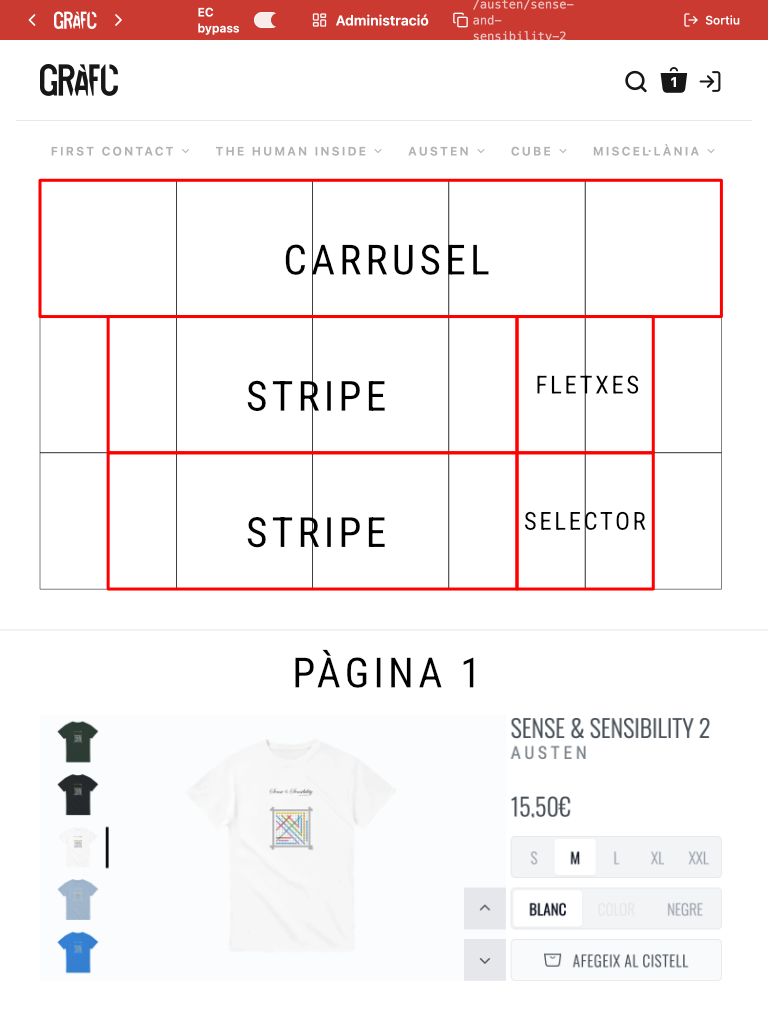
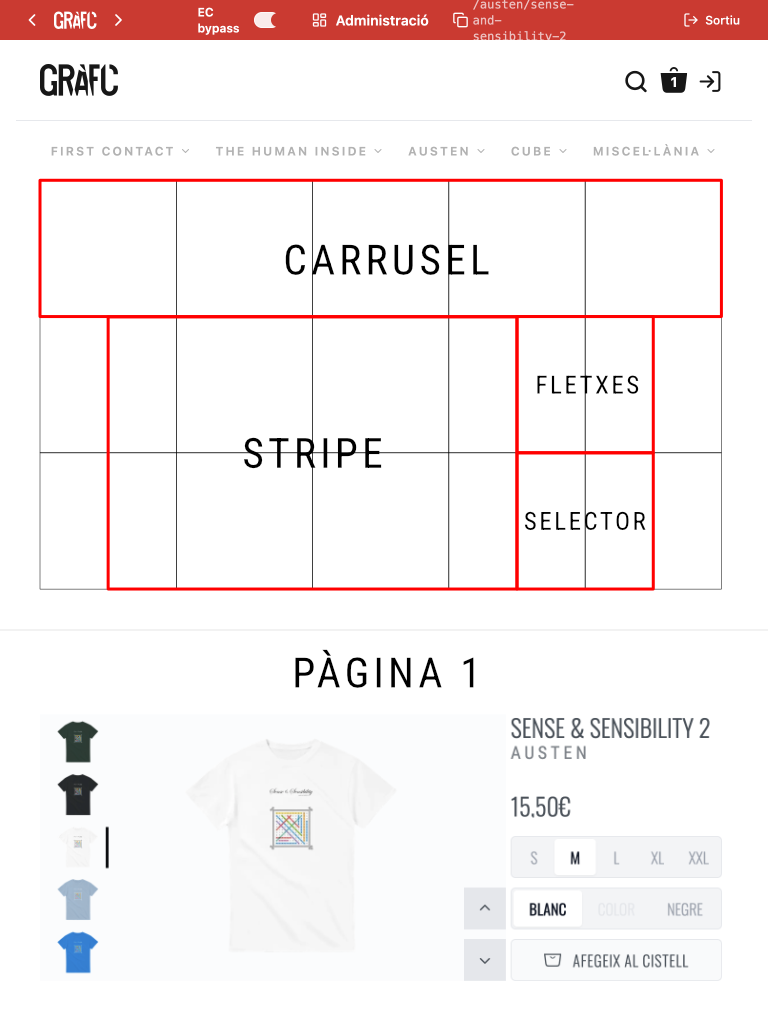
Vertical: UNA sola franja per pagina (no dues)
Cada pagina te una sola stripe que ocupa les DUES files de la reticula, amb
les fletxes a la fila 2 i el selector a la fila 3 al seu costat (pagina 1) o
amb la graella de colors a sobre i el selector a sota (pagina 2).

- Pagina 1 a 768: graella 688x168; franja 485x200 a les files 2-3; fletxes
  127x135 i selector 127x135 a la columna de la dreta.
- Pagina 2 a 768: graella 688x168; franja 442x182 a les files 2-3; colors
  103x93 i selector a la columna del mig.

Verificat: 462 proves i build OK.

Changed region(s): [[0.1562, 0.375, 0.6562, 0.4688], [0.3125, 0.5, 0.5, 0.5312]]

diff --git a/src/components/fullwide/MegaStripePanelP1.jsx b/src/components/fullwide/MegaStripePanelP1.jsx
@@ -353,10 +353,22 @@ function MegaStripePanelP1({
             <VerticalGraellaDibuixos active={active} items={itemsFila} />
           </div>
 
-          {/* FILA 2: la FRANJA a les dues primeres cel·les i les FLETXES a la
-              tercera, com a l'estructura de la pagina 1. */}
-          <div style={graellaFiles}>
-            <div style={{ gridColumn: '1 / 3' }} data-contorn-bloc="2">
+          {/* LES DUES FILES: UNA SOLA FRANJA (a les dues primeres cel·les,
+              ocupant les dues files) i, a la dreta, les FLETXES a la fila 2 i
+              el SELECTOR a la fila 3. */}
+          <div
+            style={{
+              display: 'grid',
+              gridTemplateColumns: `${c1 + c2 + GAP_PX}px ${c3}px ${c4}px`,
+              gridTemplateRows: 'auto auto',
+              columnGap: `${GAP_PX}px`,
+              rowGap: `${GAP_PX * 3}px`,
+              marginTop: `${GAP_PX * 3}px`,
+              width: '100%',
+              alignItems: 'start',
+            }}
+          >
+            <div style={{ gridColumn: '1', gridRow: '1 / 3' }} data-contorn-bloc="2">
               <VerticalStripeFranja
                 srcs={stripeVertical.srcs}
                 items={stripeVertical.items}
@@ -364,28 +376,14 @@ function MegaStripePanelP1({
                 onSelect={triaSamarreta}
               />
             </div>
-            <div style={{ gridColumn: '3' }} data-contorn-bloc="3">
+            <div style={{ gridColumn: '2', gridRow: '1' }} data-contorn-bloc="3">
               <VerticalFletxes
                 tileSize={Math.round(c3 * 0.9)}
                 onPrev={() => setThinStartIndex?.((v) => v - 1)}
                 onNext={() => setThinStartIndex?.((v) => v + 1)}
               />
             </div>
-            <div style={{ gridColumn: '4' }} />
-          </div>
-
-          {/* FILA 3: la FRANJA a les dues primeres cel·les i el SELECTOR a la
-              tercera. */}
-          <div style={graellaFiles}>
-            <div style={{ gridColumn: '1 / 3' }}>
-              <VerticalStripeFranja
-                srcs={stripeVertical.srcs}
-                items={stripeVertical.items}
-                selectedItem={selectedItem}
-                onSelect={triaSamarreta}
-              />
-            </div>
-            <div style={{ gridColumn: '3' }} data-contorn-bloc="4">
+            <div style={{ gridColumn: '2', gridRow: '2' }} data-contorn-bloc="4">
               <VerticalSelector
                 variant={variantActual}
                 visibility={stripeVariantVisibility}
@@ -394,7 +392,7 @@ function MegaStripePanelP1({
                 onMulti={() => { setStripeOverlayOverrideActive?.(false); if (active === 'the_human_inside') setHumanInsideVariant?.('color'); else setFirstContactVariant?.('color'); }}
               />
             </div>
-            <div style={{ gridColumn: '4' }} />
+            <div style={{ gridColumn: '3', gridRow: '1 / 3' }} />
           </div>
         </div>
       </div>

diff --git a/src/components/megaslide/MegaslidePagina2.jsx b/src/components/megaslide/MegaslidePagina2.jsx
@@ -485,7 +485,9 @@ export default function MegaslidePagina2({
             <div style={{ gridColumn: '2', gridRow: '2' }}>
               <VerticalColorsGrid selectedColor={colorSlug} onSelectColor={triaColor} />
             </div>
-            <div style={{ gridColumn: '3', gridRow: '2' }}>
+
+            {/* UNA SOLA FRANJA, a la dreta i ocupant les files 2 i 3. */}
+            <div style={{ gridColumn: '3', gridRow: '2 / 4' }}>
               <VerticalStripeFranja
                 srcs={srcsFranja}
                 items={stripeTileItems}
